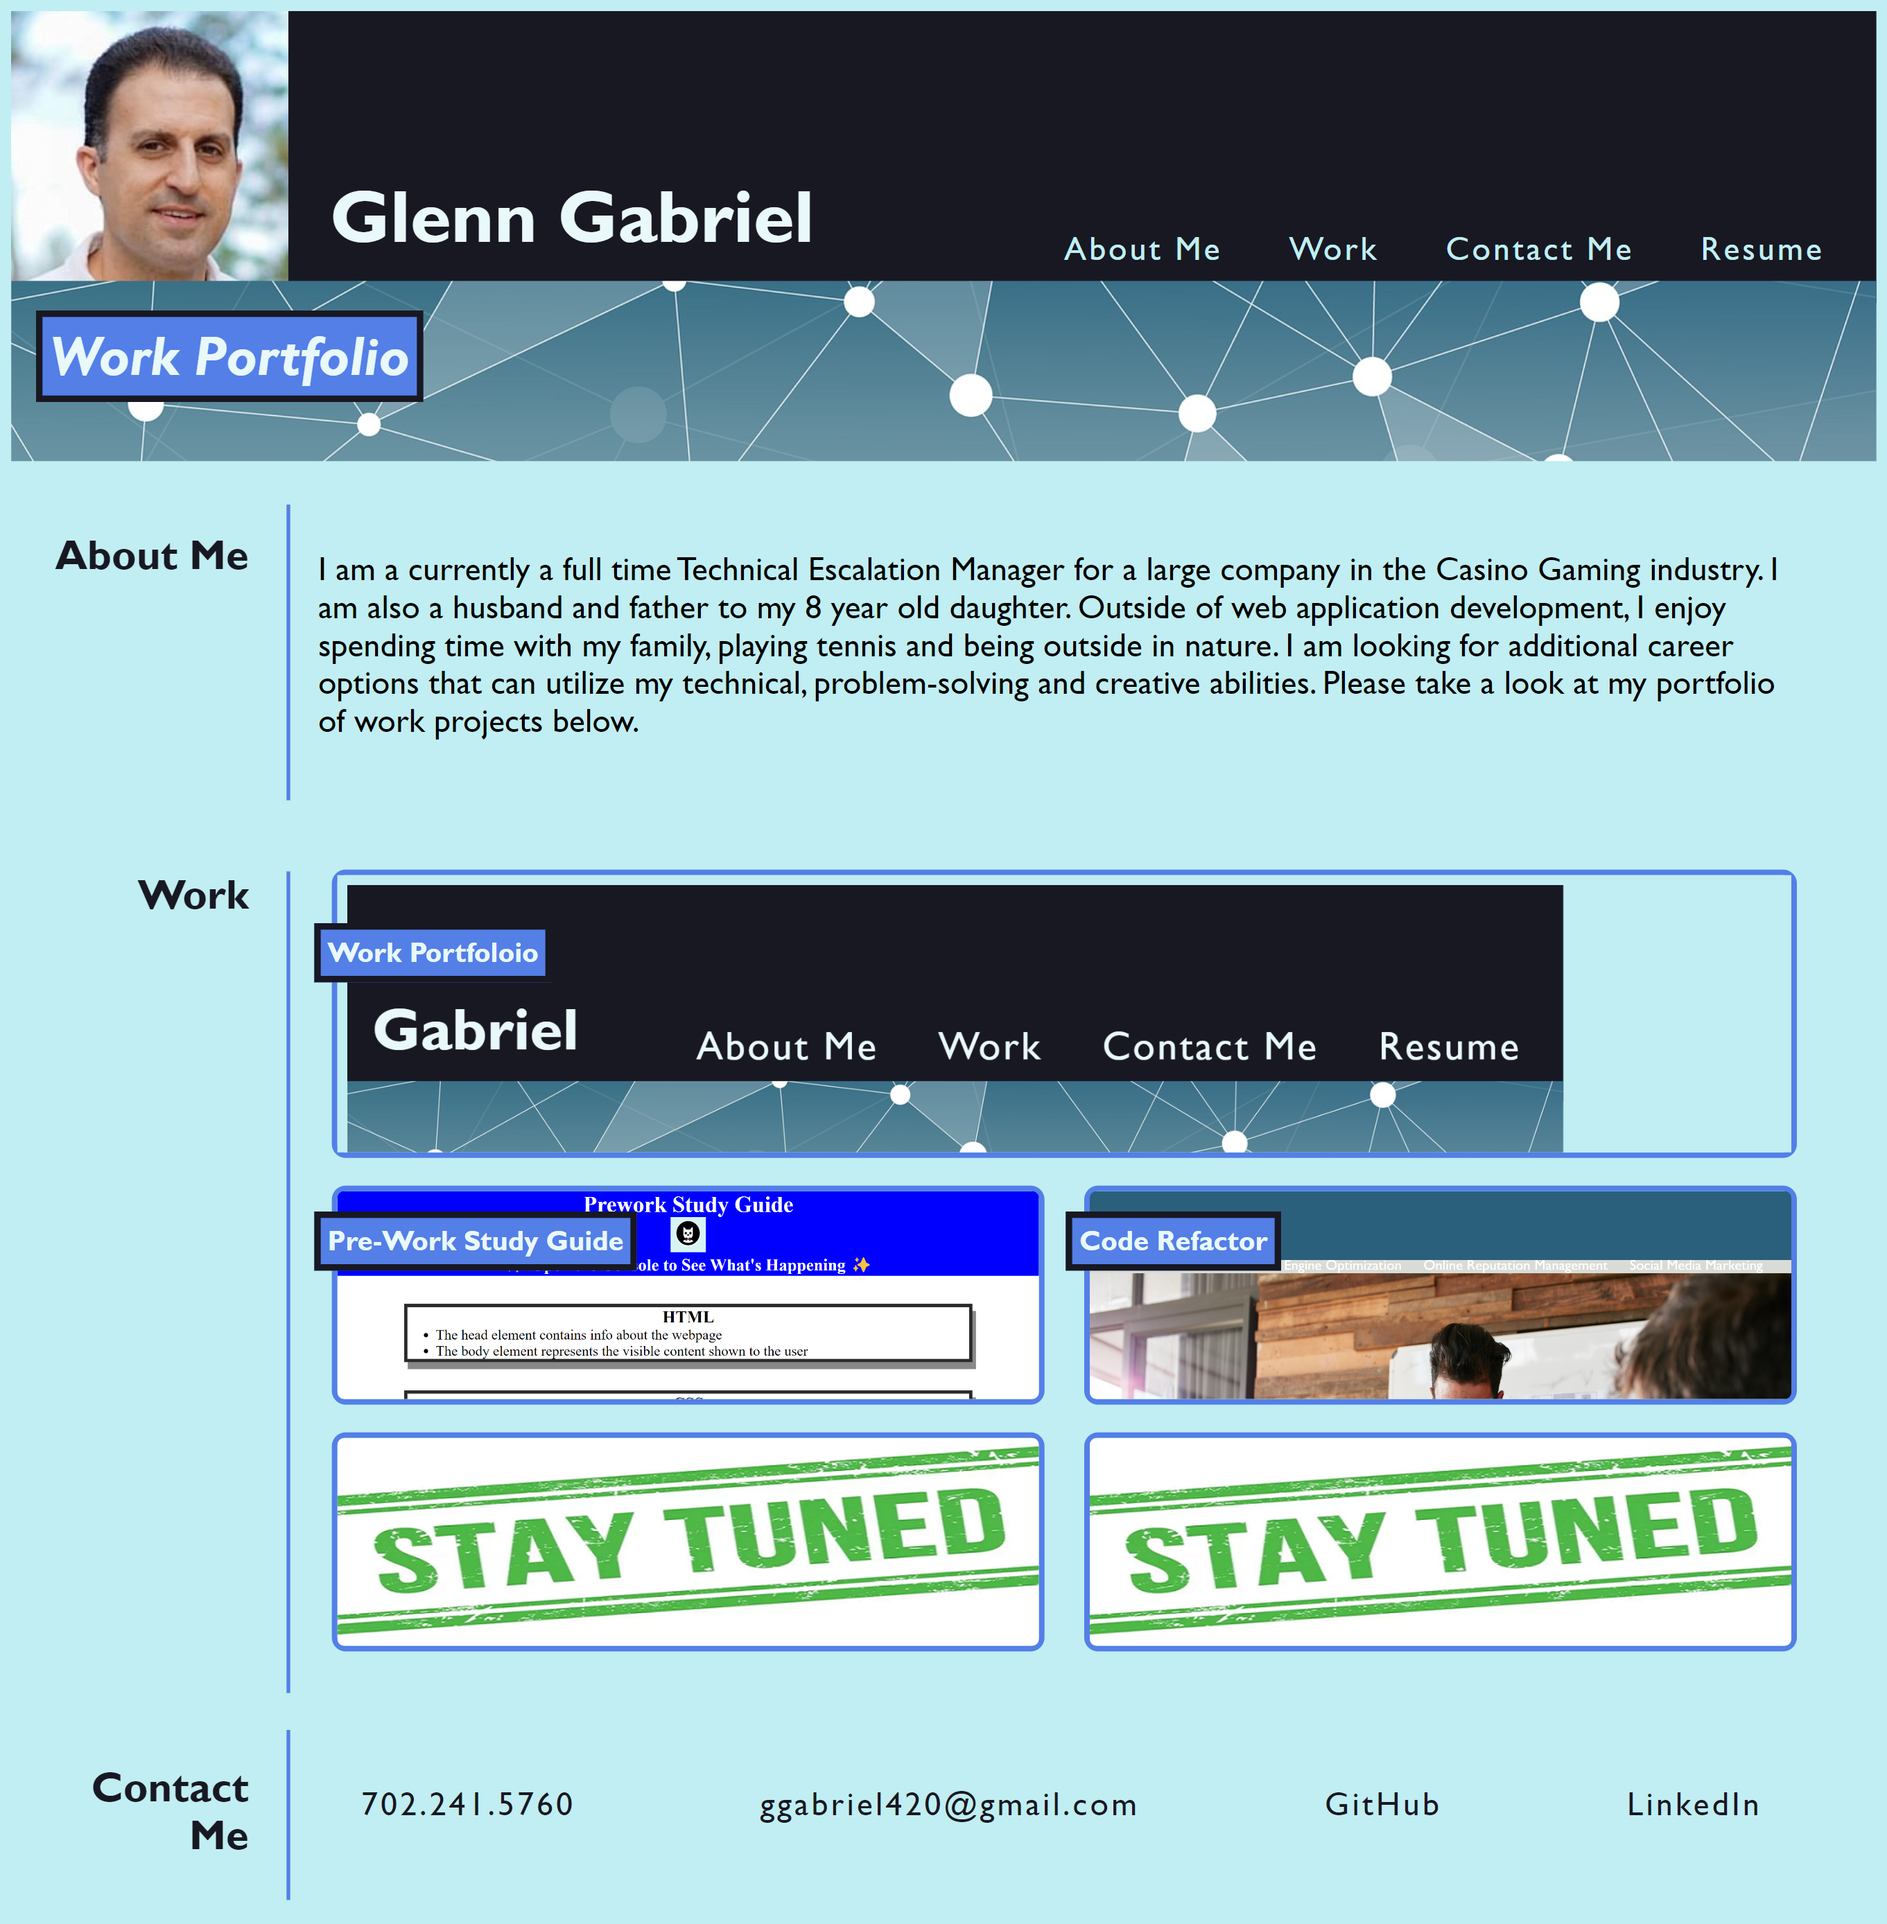
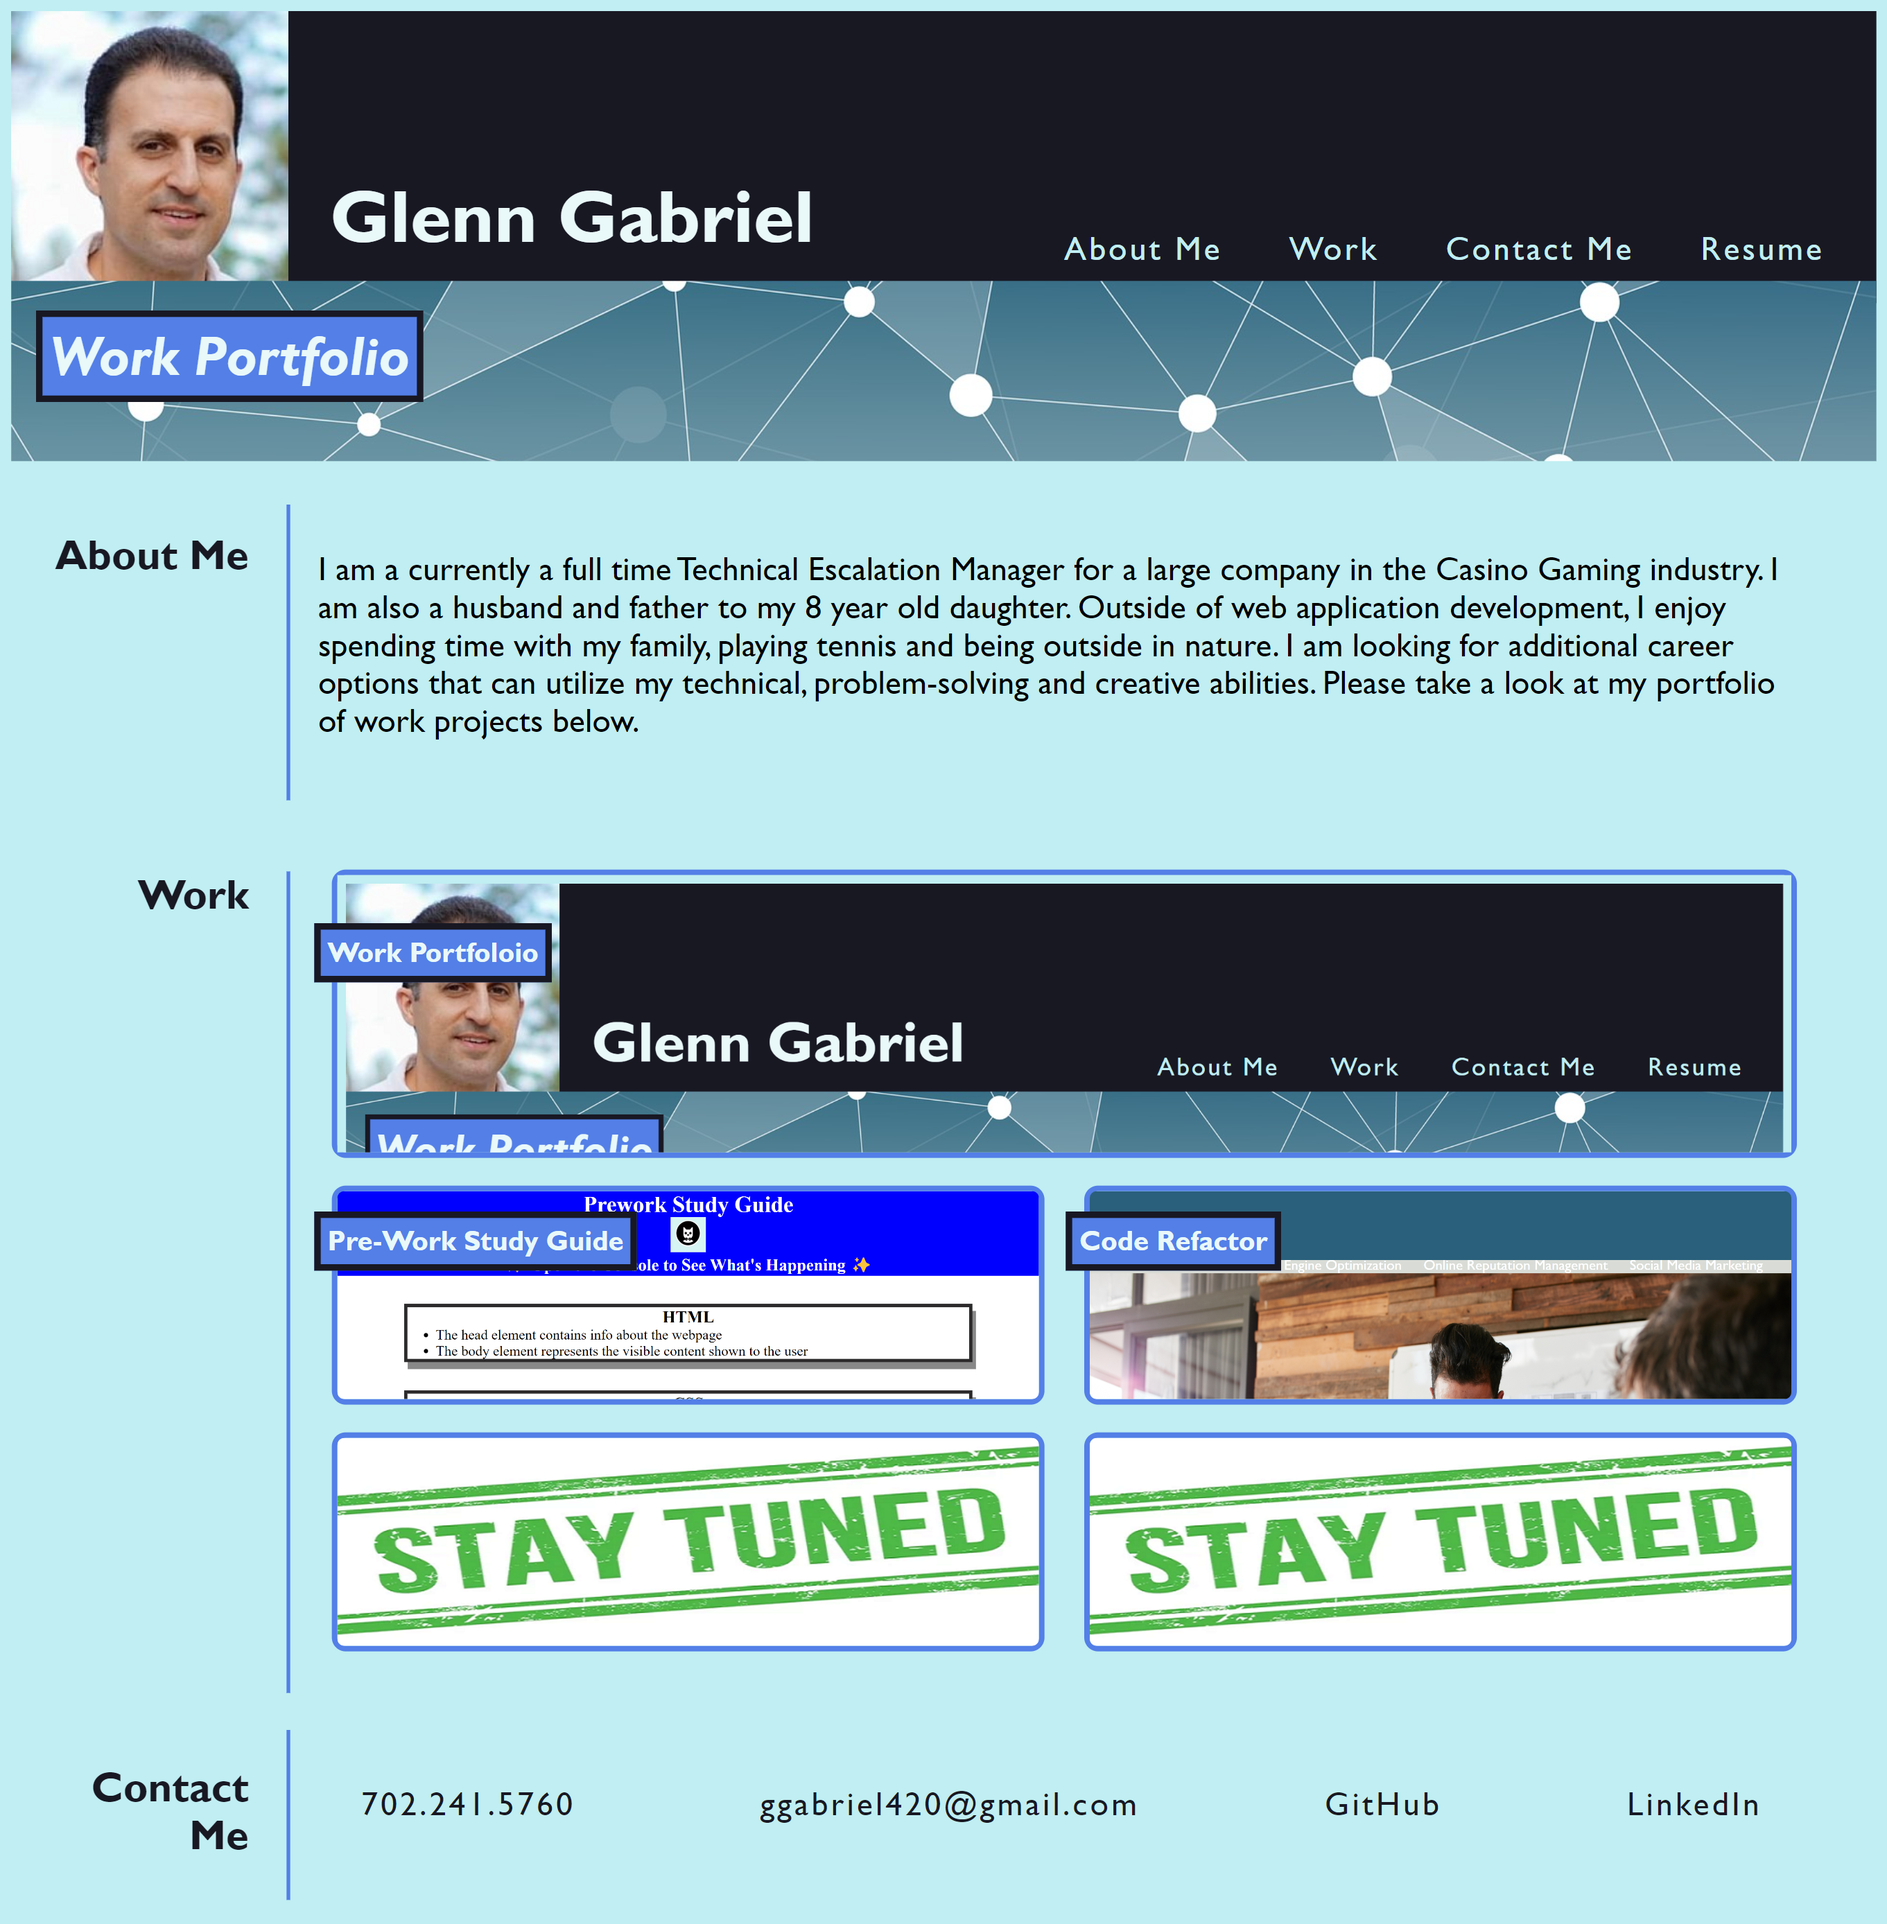
fixed issue with portfolio screenshot

Changed region(s): [[0.1561, 0.4337, 0.968, 0.6196]]

diff --git a/index.html b/index.html
@@ -44,7 +44,7 @@
             <article class="work-flex-box">
                 <div class="work-top work">
                     <a href="http://127.0.0.1:5500/Module_2_Challenge/gabriel-portfolio/index.html" target="_blank">
-                    <img class="top-work-image" src="./assets/images/porfolioscreenshot.png" alt="Portfolio">
+                    <img class="top-work-image" src="./assets/images/portfolioscreenshot.png" alt="Portfolio">
                     </a>
                     <figcaption class="label subtitle topwork-position">
                         Work Portfoloio
